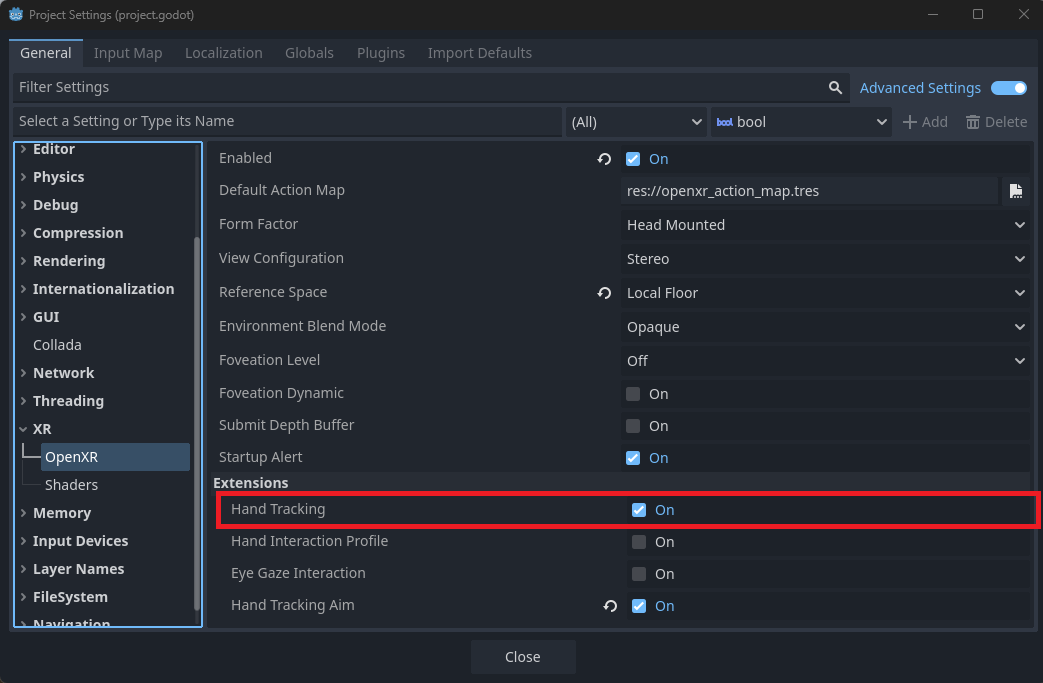
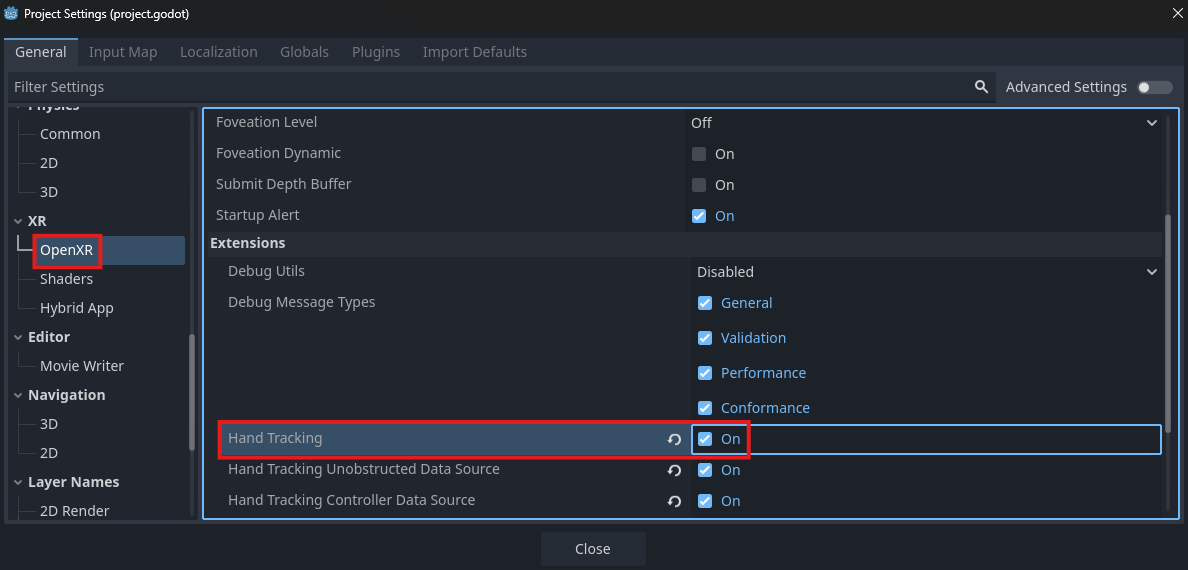
Update docs to reflect project settings changes

Changed region(s): [[0.0, 0.0, 1.0, 0.9246], [0.9818, 0.0, 1.0, 0.0298], [0.4909, 0.9544, 0.5216, 0.9842]]

diff --git a/docs/manual/meta/hand_tracking.rst b/docs/manual/meta/hand_tracking.rst
@@ -9,13 +9,19 @@ Meta Hand Tracking
 The Godot OpenXR Vendors plugin supports a number of Meta OpenXR extensions related to hand tracking; this tutorial serves as a tour of
 these extensions with an explanation of how they might be used.
 
-To use any of the Meta hand tracking OpenXR extensions, ensure the hand tracking Meta XR feature is enabled in export settings.
+Project Settings
+----------------
 
-.. image:: img/hand_tracking/hand_tracking_export_setting.png
-
-The OpenXR hand tracking setting must also be enabled in project settings, this is enabled by default.
+To use any of the Meta hand tracking OpenXR extensions, the OpenXR hand tracking setting must be enabled in project settings.
+The extension setting can be found in **Project Settings** under the **OpenXR** section,
+the **Hand Tracking** setting should be listed under **Extensions**.
 
 .. image:: img/hand_tracking/hand_tracking_project_setting.png
+
+All of the extensions discussed in this tutorial also have corresponding project settings that must be enabled on top of hand tracking.
+They can be found under the **Meta** subcategory of **Extensions**, and are only visible with **Advanced Settings** enabled.
+
+.. image:: img/hand_tracking/hand_tracking_extensions_project_settings.png
 
 Hand Mesh
 ---------
@@ -106,10 +112,7 @@ Hand Tracking Aim
 -----------------
 
 The ``XR_FB_hand_tracking_aim`` extension provides simple gesture recognition, for example, firing a signal when
-the user touches their index finger to their thumb. To enable hand tracking aim, open up **Project Settings**, go to **OpenXR**
-settings, and enable ``hand_tracking_aim``, which should be listed below **Extensions**.
-
-.. image:: img/hand_tracking/hand_aim_project_setting.png
+the user touches their index finger to their thumb.
 
 The hand tracking aim extension uses signals from `XRController3D <https://docs.godotengine.org/en/stable/classes/class_xrcontroller3d.html>`_
 to communicate the gesture data. Assigning the ``tracker`` of the ``XRController3D`` to either ``/user/fbhandaim/left``

diff --git a/docs/manual/meta/spatial_anchors.rst b/docs/manual/meta/spatial_anchors.rst
@@ -10,16 +10,22 @@ Meta Spatial Anchors
 The :ref:`OpenXRFbSpatialAnchorManager <class_openxrfbspatialanchormanager>` node provides an
 easy-to-use way to interact with Meta's Spatial Anchors. This tutorial walks through the basic features
 of the node such as placing/removing spatial anchors, and saving/loading them to/from a file.
-To begin, ensure the ``use_anchor_api`` property in **Export Settings** under **Meta XR Features** is enabled.
 
-.. image:: img/spatial_anchors/spatial_anchor_export_setting.png
 
-Then, add an ``OpenXRFbSpatialAnchorManager`` node as a child of `XROrigin3D <https://docs.godotengine.org/en/stable/classes/class_xrorigin3d.html>`_.
+Project Settings
+-----------------
 
-.. image:: img/spatial_anchors/spatial_anchor_manager_node.png
+In order to utilize Spatial Anchors, you'll have to enable the feature. Open up **Project Settings** and navigate to the **OpenXR** section.
+The **Anchor API** setting should be found under **Extensions** in the **Meta** subcategory. This setting is only visible when **Advanced Settings** are enabled.
+
+.. image:: img/spatial_anchors/anchor_api_project_setting.png
 
 Creating Spatial Anchors
 ------------------------
+
+First, add an ``OpenXRFbSpatialAnchorManager`` node as a child of `XROrigin3D <https://docs.godotengine.org/en/stable/classes/class_xrorigin3d.html>`_.
+
+.. image:: img/spatial_anchors/spatial_anchor_manager_node.png
 
 To place spatial anchors, the manager node's :ref:`scene <class_openxrfbspatialanchormanager_property_scene>`
 property should be set to the desired "spatial anchor scene" to be instantiated.

diff --git a/docs/manual/meta/scene_manager.rst b/docs/manual/meta/scene_manager.rst
@@ -10,6 +10,14 @@ Meta Scene Manager
 The Scene Manager provides you information about the space you are currently in. This includes the scanned mesh of the room (on Quest 3) as well as things like walls, doors, or tables.
 In case you are starting on a new project, please first follow `this guide <https://docs.godotengine.org/en/stable/tutorials/xr/setting_up_xr.html>`_ to set up your project for XR.
 
+Project Settings
+-----------------
+
+In order to utilize the Scene Manager, you'll have to enable the feature. Open up **Project Settings** and navigate to the **OpenXR** section.
+The **Scene API** setting should be found under **Extensions** in the **Meta** subcategory. This setting is only visible when **Advanced Settings** are enabled.
+
+.. image:: img/scene_manager/scene_api_project_setting.png
+
 Adding the Scene Manager Node
 ------------------------------
 
@@ -25,10 +33,6 @@ The :ref:`Auto Create <class_openxrfbscenemanager_property_auto_create>` option 
 The **Scenes** section in the options allows you to individually assign a scene to a kind of spatial entity which can help in separating the logic.
 
 .. image:: img/scene_manager/scene_manager_options.png
-
-Next, head over to the Export Settings and make sure that in the **Meta XR Features** the ``Use Anchor API`` and ``Use Scene API`` options are enabled.
-
-.. image:: img/scene_manager/export_settings.png
 
 Creating Spatial Entities
 -------------------------

diff --git a/docs/manual/meta/passthrough.rst b/docs/manual/meta/passthrough.rst
@@ -4,13 +4,13 @@ Meta Passthrough
 If your project requires the user to see their physical environment, you'll need to use the headset's passthrough functionality.
 The Godot OpenXR Vendors Plugin provides access to several passthrough modes and filters supported on the Meta Quest, all of which will be broken down in this tutorial.
 
-Export Settings
+Project Settings
 -----------------
 
-In order to utilize passthrough, you'll first have to enable the feature in your project's Export Settings. Open up **Export Settings**, navigate to **Meta XR Features**,
-and locate the **Passthrough** setting. Changing this to either **Optional** or **Required** will allow a user's headset to utilize passthrough if permission is granted.
+In order to utilize passthrough, you'll have to enable the feature. Open up **Project Settings** and navigate to the **OpenXR** section.
+The **Passthrough** setting should be found under **Extensions** in the **Meta** subcategory. This setting is only visible when **Advanced Settings** are enabled.
 
-.. image:: img/passthrough/passthrough_export_settings.png
+.. image:: img/passthrough/passthrough_project_setting.png
 
 .. _reconstruction-passthrough:
 Reconstruction Passthrough

diff --git a/docs/manual/hybrid_apps.rst b/docs/manual/hybrid_apps.rst
@@ -11,12 +11,11 @@ Hybrid apps are applications capable of swapping between an immersive 3D mode an
 Project Settings
 ----------------
 
-To make a hybrid app, the feature must be enabled in your project settings. The setting can be found in **Project Settings** under the **OpenXR** section.
-The **Hybrid App** setting should be visible if **Advanced Settings** are enabled.
+To make a hybrid app, the feature must be enabled in your project settings. The setting can be found in **Project Settings** under the **XR** -> **Hybrid App** section.
 
 .. image:: img/hybrid_apps/hybrid_apps_project_setting.png
 
-By default, hybrid app functionality is disabled. Selecting either of the other options will enable hybrid app features and determine the app's starting mode.
+By default, hybrid app functionality is disabled. Check the **Enabled** box and set the starting mode of the hybrid app with the **Launch Mode** setting.
 
 Switching Modes
 ---------------

diff --git a/docs/manual/meta/composition_layers.rst b/docs/manual/meta/composition_layers.rst
@@ -45,6 +45,12 @@ or to let the OpenXR runtime toggle between options automatically.
 
 When automatic layer filtering is enabled, the runtime will only swap between disabled supersampling/sharpening, and the modes indicated by the ``options`` property.
 
+This OpenXR extension is enabled by default, but it can be disabled if desired. In **Project Settings**, navigate to the **OpenXR** section.
+The **Composition Layer Settings** setting should be found under **Extensions** in the **Meta** subcategory.
+This setting is only visible when **Advanced Settings** are enabled.
+
+.. image:: img/composition_layers/filter_settings_project_setting.png
+
 Alpha Blend
 -----------
 

diff --git a/docs/manual/meta/dynamic_resolution.rst b/docs/manual/meta/dynamic_resolution.rst
@@ -8,6 +8,6 @@ Project Settings
 ----------------
 
 Dynamic Resolution is enabled by default. The extension setting can be found in **Project Settings** under the **OpenXR** section.
-The **Dynamic Resolution** setting should be listed under **Extensions**.
+The **Dynamic Resolution** setting should be listed under **Extensions** in the **Meta** subcategory.
 
 .. image:: img/dynamic_resolution/dynamic_resolution_project_setting.png
